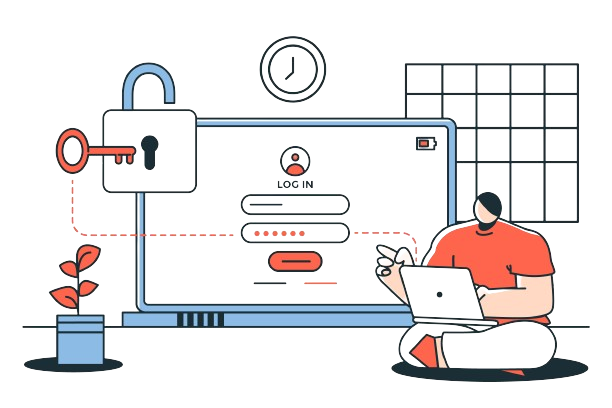
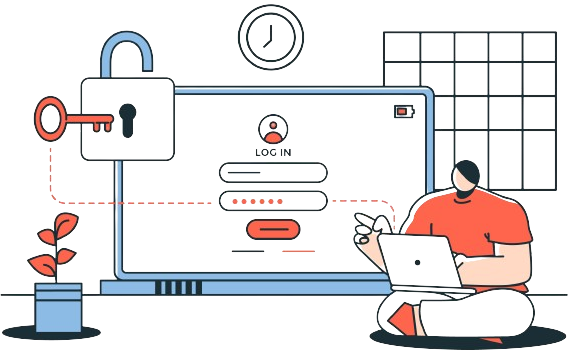
Login responsiveness

Changed region(s): [[0.0, 0.0, 1.0, 0.9972], [0.0896, 0.4558, 0.1195, 0.5698], [0.5677, 0.4843, 0.5975, 0.5128]]

diff --git a/src/index.css b/src/index.css
@@ -469,7 +469,7 @@ button{
 .footerThree .startUpLogo{
   display: flex;
   flex-direction: column;
-  width: 100%;
+  width: 20vmax;
 }
 .startUpLogo{
   padding-top: 2vw;
@@ -954,21 +954,163 @@ button{
   background-image: url('./Components/Images/AppStoreBadge.jpg');  /*Done*/
 }
 
+/*
+.login .loginLogo{
+  height: 25vw;
+  width: 50%;
+  background-image: url('./Components/Images/Login.png');
+  background-repeat: no-repeat;
+  margin-top: 6vw;
+  margin-left: 4vw;
+}
+.login .loginForm{
+  width: 50%;
+  height: auto;
+  text-align: center;
+  display: flex;
+  flex-direction: column;
+  align-items: center;
+  margin-top: 3.5vw;
+}
+.loginForm .loginHeading h1{
+  font-family: 'Lexend Deca';
+  font-size: 2vw;
+  line-height: 2.7vw;
+}
+.loginForm .loginDetails{
+  margin-top: 2vw;
+  background-color: #2D2E2F;
+  width: 36vw;
+  gap: 1.3vw;
+  padding: 1vw;
+  height: 40vh;
+  text-align: center;
+  border-radius: 24px;
+  display: flex;
+  flex-direction: column;
+  justify-content: space-evenly;
+  align-items: center;
+}
+
+.loginDetails .loginDetailsDivI,
+.loginDetails .loginDetailsDivII,
+.loginDetails .loginDetailsDivIII,
+.loginDetails .loginDetailsDivIV{
+  width: 95%;
+  font-family: 'Plus Jakarta Sans';
+  text-align: center;
+}
+.loginDetails .loginDetailsDivI{
+  font-weight: 600;
+  font-size: 20px;
+  height: 32px;
+  line-height: 32px;
+  color: #FFFFFF;
+}
+.loginDetails .loginDetailsDivII{
+  background-color: #FFFFFF;
+  border-radius: 8px;
+  padding: 8px 16px;
+  gap: 8px;
+  display: flex;
+  justify-content: center;
+  align-items: center;
+  height: 44px;
+  border: 10px solid rgba(255, 255, 255, 0.1);
+}
+.loginDetailsDivII p{
+  font-weight: 600;
+  font-size: 14px;
+  line-height: 20px;
+  text-align: center;
+}
+.loginDetails .loginDetailsDivIV{
+  background-color: #FF654D;
+  border-radius: 12px;
+  color: #FFFFFF;
+  display: flex;
+  justify-content: center;
+  align-items: center;
+  padding: 12px 8px;
+  height: 48px;
+}
+.loginDetailsDivIV button{
+  line-height: 24px;
+  background-color: transparent;
+  font-size: 16px;
+  color: #FFFFFF;
+  font-weight: 700;
+  cursor: pointer;
+}
+.loginDetails .loginDetailsDivIII{
+  height: 48px;
+  display: flex;
+  justify-content: space-between;
+}
+.loginDetailsDivIII .Country_code,
+.loginDetailsDivIII .Phone_number_for_otp,
+.loginDetailsDivIII .otp_for_verification{
+  background-color: transparent;
+  color: #FFFFFF;
+  border: 1.2px solid rgba(255, 255, 255, 0.2);
+  border-radius: 8px;
+  font-weight: 500;
+  font-size: 16px;
+}
+.loginDetailsDivIII .Country_code{
+  width: 12%;
+  height: 100%;
+  padding: 0px;
+  text-align: center;
+}
+.loginDetailsDivIII .Phone_number_for_otp{
+  width: 85%;
+  height: 100%;
+  padding: 8px 16px;
+  padding-left: 12px;
+}
+.Phone_number_for_otp::-webkit-inner-spin-button,
+.Phone_number_for_otp::-webkit-outer-spin-button,
+.otp_for_verification::-webkit-inner-spin-button,
+.otp_for_verification::-webkit-outer-spin-button{
+  -webkit-appearance: none;
+  margin: 0;
+}
+
+.loginDetailsDivIII .otp_for_verification{
+  width: 100%;
+  height: 100%;
+  padding: 8px 16px;
+  padding-left: 12px;
+}
+.loginDetailsDivV button{
+  font-weight: 600;
+  font-size: 14px;
+  line-height: 28px;
+  color: rgba(254, 135, 35, 1);
+  text-align: center;
+  background-color: transparent;
+  cursor: pointer;
+}
+*/
+
+
 
 /*Login*/
 
 .login{
   width: 100%;
-  height: 490px;
+  height: auto;
   display: flex;
 }
 .login .loginLogo{
-  height: 500px;
+  height: 52vh;
+  margin-top: 6vw;
+  margin-left: 4vw;
   width: 50%;
   background-image: url('./Components/Images/Login.png');
   background-repeat: no-repeat;
-  margin-top: 85px;
-  margin-left: 20px;
+  
 }
 .login .loginForm{
   width: 50%;
@@ -1101,28 +1243,7 @@ button{
   cursor: pointer;
 }
 
-/*testimonials*/
-/* 
-.testimonialCarousel{
-  margin: auto;
-  width: 100%;
-  height: 395px;
-  display: flex;
-  justify-content: center;
-  font-family: "Work Sans";
-}
-.testimonialCarousel .ArrowTestimonial{
-  padding: auto;
-  margin: auto;
-  width: 35px;
-  height: 35px;
-  cursor: pointer;
-}
-.testimonialCarousel .ArrowTestimonial .ArrowIcon{
-  width: 100%;
-  height: 100%;
-} 
-.testimonialCarousel*/
+/*.testimonialCarousel*/
 .testimonial{
   padding: 0 0 50px 0;
   position: relative;
@@ -1241,7 +1362,10 @@ button{
     height: 25px;
   }
   .footerMain{
-    height: 52vh;
+    height: 50vh;
+  }
+  .footer{
+    padding-top: 5vh;
   }
   .footer,
   .bottom{
@@ -1250,5 +1374,12 @@ button{
   .footerThree {
     width: 27vw;
     height: 20vw;
+  }.login{
+    flex-wrap: wrap;
+    justify-content: center;
+  }
+  .login .loginLogo{
+    height: 52vh;
+    width: 90%;
   }
 }
